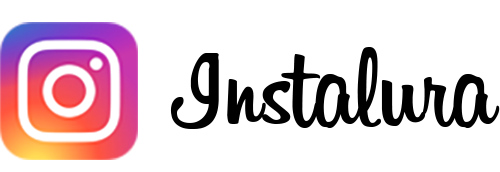
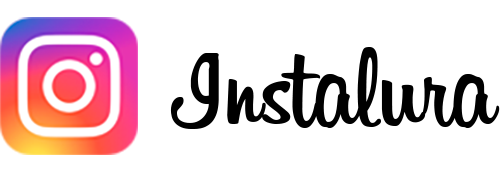
Instalura cover updated

Changed region(s): [[0.0, 0.0872, 0.3, 0.9302]]

diff --git a/README.md b/README.md
@@ -1,7 +1,7 @@
 
 <h1 align="center">
   <br>
-  <a href="http://linkedin.com/devfabiocicero"><img src="instalura-cover.png" alt="Instalura" width="500"></a>
+  <a href="http://linkedin.com/devfabiocicero"><img src="instalura-cover.png" alt="Instalura"></a>
   <br>
 </h1>
 
